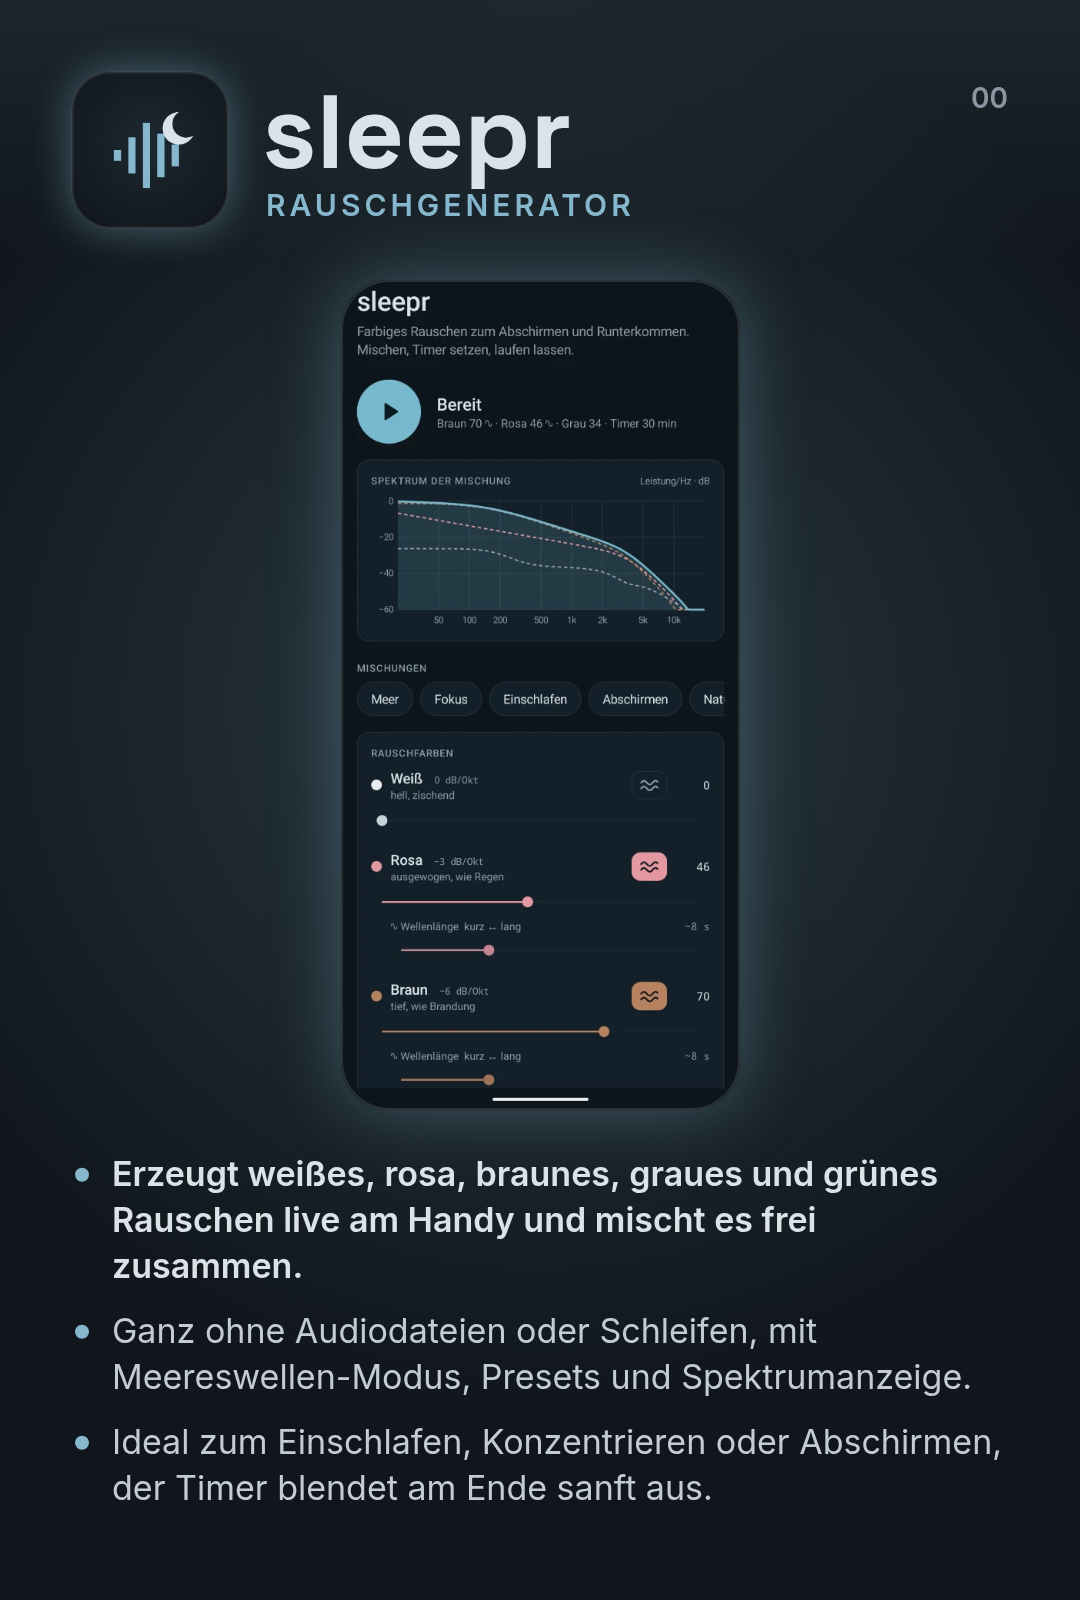
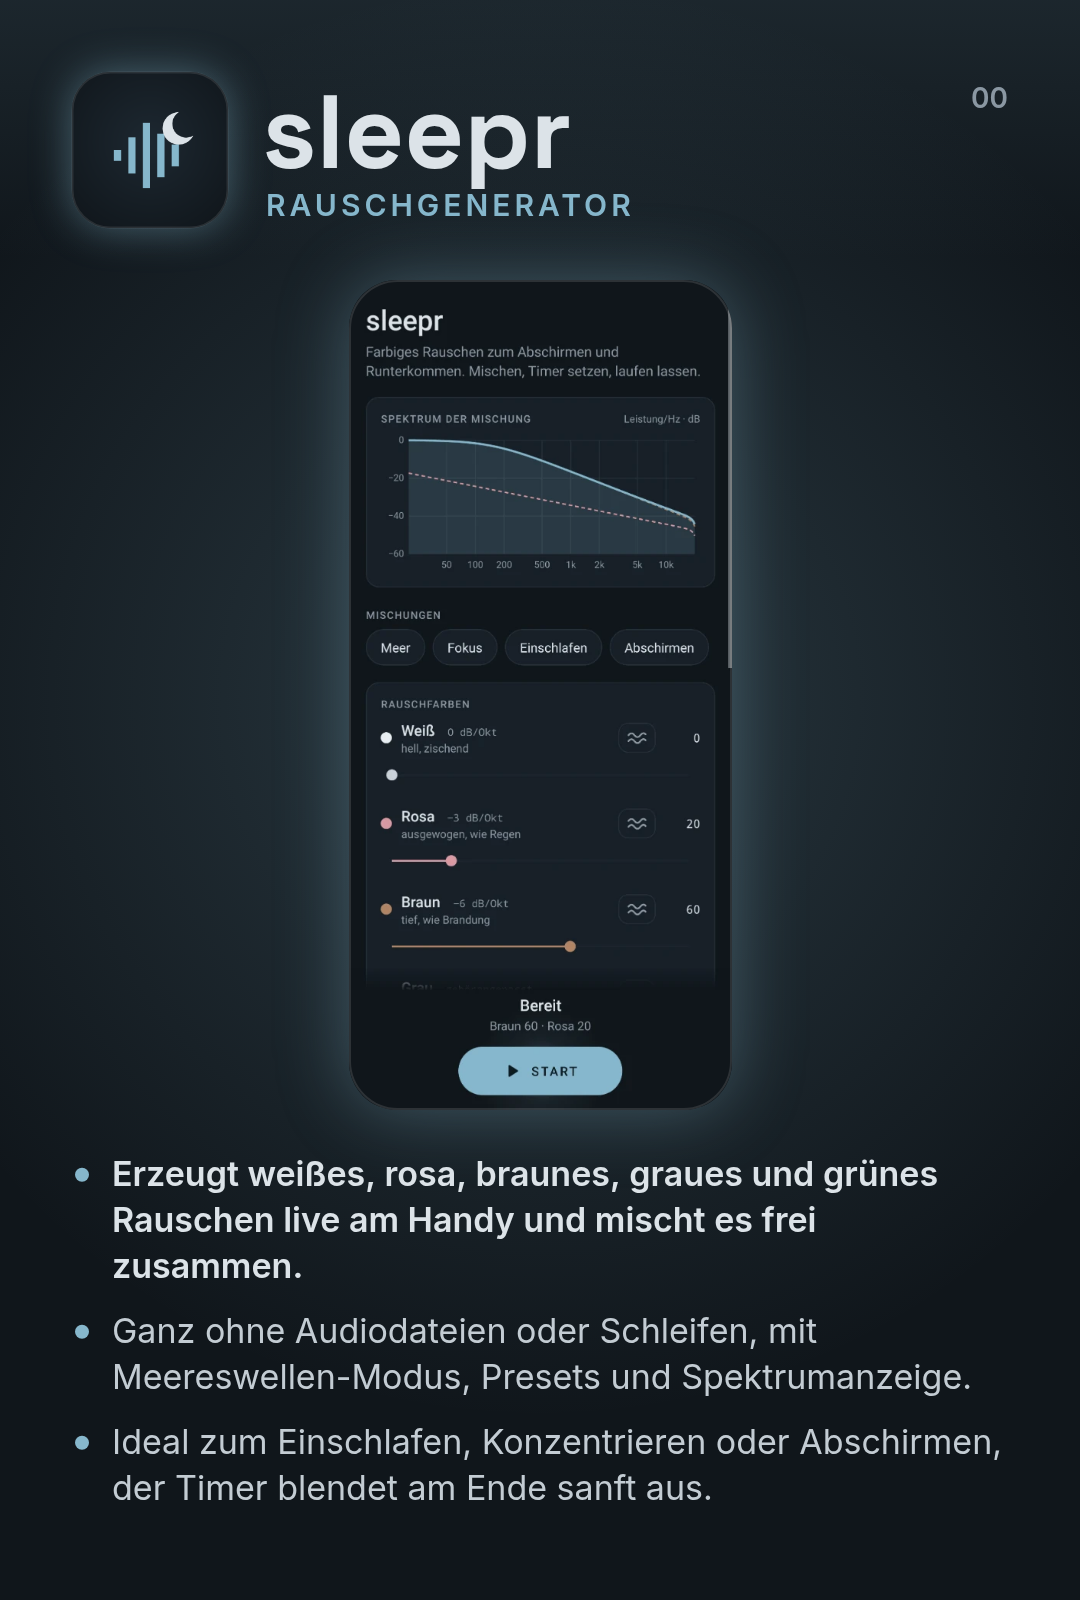
docs: Übersicht – Text in allen Karten auf gleicher Höhe, neuer sleepr-Screenshot

diff --git a/docs/overview/style.css b/docs/overview/style.css
@@ -5,7 +5,8 @@
 
 :root {
   --bg: #0b1014; --card: #10161b; --fg: #dce3e8; --fg2: #c3ccd3; --muted: #8a97a2;
-  --shot-h: 520px; /* einheitliche Höhe der Hochformat-Screenshots */
+  --head-h: 88px;  /* Kopf: Name 42 + 6 + 2 Kategoriezeilen à 19,5 */
+  --shot-h: 520px; /* Bildbereich, für Hoch- und Querformat gleich */
   color-scheme: dark;
 }
 * { box-sizing: border-box; }
@@ -34,29 +35,32 @@ body {
     var(--card);
   border: 1px solid rgba(255, 255, 255, 0.06);
 }
-.card header { display: flex; align-items: center; gap: 16px; }
+/* Kopf mit fester Höhe (Platz für 2 Kategoriezeilen), damit der Text überall gleich tief beginnt */
+.card header { display: flex; align-items: center; gap: 16px; height: var(--head-h); flex: none; }
 .icon {
   width: 68px; height: 68px; border-radius: 17px; flex: none;
   box-shadow: 0 0 24px color-mix(in srgb, var(--a) 45%, transparent), inset 0 0 0 1px rgba(255, 255, 255, 0.1);
 }
 .title { min-width: 0; }
 .card h2 { margin: 0; font: 700 42px/1 "Space Grotesk", system-ui, sans-serif; letter-spacing: -0.01em; }
-.cat { margin: 6px 0 0; color: var(--a); font-weight: 600; font-size: 13px; letter-spacing: 0.16em; text-transform: uppercase; }
+.cat {
+  margin: 6px 0 0; color: var(--a); font-weight: 600; font-size: 13px; line-height: 1.5; letter-spacing: 0.16em; text-transform: uppercase;
+  display: -webkit-box; -webkit-box-orient: vertical; -webkit-line-clamp: 2; line-clamp: 2; overflow: hidden;
+}
 .nr { position: absolute; top: 24px; right: 26px; color: var(--muted); font-weight: 600; font-size: 14px; }
 
-/* Hochformat: alle Screenshots gleich hoch, Breite folgt dem eigenen Seitenverhältnis (width/height im HTML) */
-.shot { margin: 0; display: flex; justify-content: center; }
+/* Bildbereich: feste Höhe für alle Karten, Bild darin zentriert und unverzerrt */
+.shot { margin: 0; height: var(--shot-h); flex: none; display: flex; align-items: center; justify-content: center; }
 .shot img {
-  display: block; height: var(--shot-h); width: auto; max-width: 100%;
+  display: block; height: 100%; width: auto; max-width: 100%;
   object-fit: contain; border-radius: 22px;
   box-shadow: 0 0 46px color-mix(in srgb, var(--a) 35%, transparent), 0 0 0 1px rgba(255, 255, 255, 0.12);
 }
-/* Querformat: volle Breite, nie höher als der Hochformat-Rahmen, im freien Platz zentriert */
-.wide .shot { flex: 1; align-items: center; }
-.wide .shot img { width: 100%; height: auto; max-height: var(--shot-h); border-radius: 16px; }
+/* Querformat: volle Breite, vertikal zentriert im Bildbereich */
+.wide .shot img { width: 100%; height: auto; max-height: 100%; border-radius: 16px; }
 
-/* Text immer unten bündig */
-.card ul { list-style: none; margin: auto 0 0; padding: 0 0 0 22px; display: grid; gap: 10px; }
+/* Text beginnt direkt unter dem Bildbereich, Leerraum darf unten bleiben */
+.card ul { list-style: none; margin: 0; padding: 0 0 0 22px; display: grid; gap: 10px; }
 .card li { position: relative; color: var(--fg2); }
 .card li:first-child { color: var(--fg); font-weight: 600; }
 .card li::before {

diff --git a/docs/overview/tools/collect.js b/docs/overview/tools/collect.js
@@ -1,5 +1,5 @@
 // Holt Icons und Screenshots aus den App-Branches nach docs/overview/img
-// Aufruf: node collect.js [app,...]   (sleepr braucht SLEEPR_DIR = Checkout des sleepr-Repos)
+// Aufruf: node collect.js [app,...]   (sleepr braucht SLEEPR_SHOT = Pfad zum Screenshot, siehe apps.json)
 const fs = require('fs');
 const path = require('path');
 const { OV, canvas, gitFile, apps } = require('./lib.js');
@@ -28,10 +28,11 @@ async function collect(a) {
   const s = a.source;
   let icon, shot;
   if (s.repo === 'SLEEPR_DIR') {
-    const dir = process.env.SLEEPR_DIR;
-    if (!dir) { console.warn('sleepr übersprungen: SLEEPR_DIR nicht gesetzt'); return; }
+    // "env:NAME" = Bilddatei aus Umgebungsvariable, sonst Pfad im sleepr-Checkout
+    const file = s.shot.startsWith('env:') ? process.env[s.shot.slice(4)] : process.env.SLEEPR_DIR && path.join(process.env.SLEEPR_DIR, s.shot);
+    if (!file) { console.warn(`sleepr übersprungen: ${s.shot.startsWith('env:') ? s.shot.slice(4) : 'SLEEPR_DIR'} nicht gesetzt`); return; }
     icon = await loadImage(Buffer.from(SLEEPR_ICON));
-    shot = await loadImage(fs.readFileSync(path.join(dir, s.shot)));
+    shot = await loadImage(fs.readFileSync(file));
   } else {
     icon = await loadImage(gitFile(s.ref, s.icon));
     shot = s.shot.startsWith('level:') ? (await renderLevel(s.shot.slice(6))).canvas : await loadImage(gitFile(s.ref, s.shot));

diff --git a/docs/overview/index.html b/docs/overview/index.html
@@ -23,7 +23,7 @@
         </div>
         <span class="nr">00</span>
       </header>
-      <figure class="shot"><img src="img/sleepr-shot.webp" alt="sleepr: Rauschgenerator" width="519" height="1080" loading="lazy"></figure>
+      <figure class="shot"><img src="img/sleepr-shot.webp" alt="sleepr: Rauschgenerator" width="498" height="1080" loading="lazy"></figure>
       <ul>
         <li>Erzeugt weißes, rosa, braunes, graues und grünes Rauschen live am Handy und mischt es frei zusammen.</li>
         <li>Ganz ohne Audiodateien oder Schleifen, mit Meereswellen-Modus, Presets und Spektrumanzeige.</li>

diff --git a/docs/overview/tools/README.md b/docs/overview/tools/README.md
@@ -18,7 +18,7 @@
 ## Woher die Bilder kommen
 - `collect.js` liest Icons und Screenshots per `git show <ref>:<pfad>` direkt aus den App-Branches (`source.ref` in `apps.json`, z. B. `feat/levlr`). Kein Auschecken und keine Worktree-Pfade nötig. Das Repo wird relativ zu diesem Ordner gefunden (`../../..`), abweichend per `AAPPS_REPO=/pfad/zum/aapps`.
 - Sind die Apps später nach `main` gemergt, in `apps.json` einfach `source.ref` auf `main` ändern.
-- sleepr liegt in einem eigenen Repo: `SLEEPR_DIR=/pfad/zum/sleepr-checkout node collect.js sleepr`. Das Icon wird aus seinem VectorDrawable nachgebaut. Ohne `SLEEPR_DIR` überspringt `collect.js` sleepr und die vorhandenen Bilder bleiben.
+- sleepr liegt in einem eigenen Repo. Der Screenshot (idle, Start-Button unten) stammt aus den UI-Screenshots von dessen Branch `feat/play-button-bottom` und ist dort nicht eingecheckt: `SLEEPR_SHOT=/pfad/zu/idle.png node collect.js sleepr`. Steht in `source.shot` ein Pfad statt `env:…`, gilt er relativ zu `SLEEPR_DIR`. Das Icon wird aus dem VectorDrawable nachgebaut. Ohne Variable überspringt `collect.js` sleepr und die vorhandenen Bilder bleiben.
 - moovr: Spielgrafik `clumsy-cheatsheet.jpg` aus den Assets (die App hat keine Spiel-Screenshots).
 - glidr: `source.shot = "level:23"` rendert Level 23 mit `glidr-level.js` nach.
 
